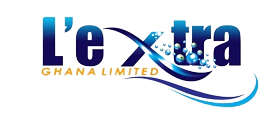
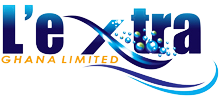
css changes

diff --git a/css/style.css b/css/style.css
@@ -79,6 +79,10 @@ body {
   grid-template-columns: repeat(4, 1fr);
 }
 
+.grid--5--cols {
+  grid-template-columns: repeat(5, 1fr);
+}
+
 .heading-primary {
   font-size: 6rem;
   font-weight: 700;
@@ -88,6 +92,7 @@ body {
   margin-bottom: 3.2rem;
 }
 
+.btn,
 .btn:link,
 .btn:visited {
   display: inline-block;
@@ -139,6 +144,12 @@ body {
   display: flex;
   justify-content: space-between;
   align-items: center;
+  /* border-bottom: 0.1rem solid #eee; */
+  position: sticky;
+  top: 0;
+  background-color: #e8f7fd;
+  z-index: 5;
+
   /* background-color: #e8f7fd; */
   /* background-color: #d2effb; */
 
@@ -148,6 +159,7 @@ body {
 
 .logo {
   height: 10rem;
+  margin-top: 2rem;
 }
 
 /********************************/
@@ -339,7 +351,7 @@ body {
 }
 
 /********************************/
-/* FEATURED IN SECTION */
+/* CLIENTS SECTION */
 /********************************/
 
 .section-clients {
@@ -363,6 +375,235 @@ body {
 .logos img {
   height: 13rem;
   filter: grayscale(20);
+
   /* filter: brightness(0); */
   /* opacity: 50%; */
+}
+
+/********************************/
+/* FORM SECTION - CTA */
+/********************************/
+.section-cta {
+  padding: 9.6rem 0 9.6rem 0;
+  background-color: #fff;
+}
+
+.cta {
+  display: grid;
+  grid-template-columns: 65fr 35fr;
+  background-color: #d2effb;
+  box-shadow: 0 2.4rem 4.8rem rgba(0, 0, 0, 0.075);
+  border-radius: 1.1rem;
+
+  background-image: linear-gradient(to right bottom, #d2effb #1db1eb);
+  overflow: hidden;
+}
+
+.cta-text-box {
+  padding: 4.8rem 6.4rem 6.4rem 6.4rem;
+  color: #333;
+}
+
+.cta .heading-secondary {
+  color: #333;
+  margin-bottom: 3.2rem;
+}
+
+.cta-text {
+  font-size: 1.8rem;
+  line-height: 1.8;
+  margin-bottom: 4.8rem;
+}
+
+.cta-img-box {
+  background-image: url("../img/services/contact.jpg");
+  background-size: cover;
+  background-position: bottom;
+}
+
+.cta-form {
+  display: grid;
+  grid-template-columns: 1fr 1fr;
+  column-gap: 3.2rem;
+  row-gap: 2.4rem;
+}
+
+.cta-form label {
+  display: block;
+  font-size: 1.6rem;
+  font-weight: 500;
+  margin-bottom: 1.2rem;
+}
+
+.cta-form input,
+.cta-form select {
+  width: 100%;
+  padding: 1.2rem;
+  font-size: 1.8rem;
+  font-family: inherit;
+  color: inherit;
+  border: none;
+  /* background-color: #fdf2e9; */
+  border-radius: 0.9rem;
+  box-shadow: 0 0.1rem 0.2rem rgba(0, 0, 0, 0.01);
+}
+
+.cta-form input::placeholder {
+  color: #aaa;
+}
+
+.btn--form {
+  background-color: #093546;
+  color: #fff;
+  align-self: end;
+  padding: 1.2rem;
+  border: none;
+}
+
+.btn--form:hover {
+  background-color: #fff;
+  color: #555;
+}
+
+*:focus {
+  outline: none;
+  box-shadow: 0 0 0 0.8rem rgba(29, 177, 235, 0.5);
+}
+
+.cta *:focus {
+  outline: none;
+  box-shadow: 0 0 0 0.8rem rgba(253, 242, 233, 0.5);
+}
+
+/********************************/
+/* FORM SECTION - CONTACT INFORMATION */
+/********************************/
+
+.contacts {
+  padding: 4.8rem 1.6rem;
+  background-color: #1db1eb;
+  color: #fff;
+}
+
+.contacts .heading-secondary {
+  font-size: 3.5rem;
+  color: #fff;
+  margin-bottom: 4rem;
+}
+
+.contacts span {
+  font-size: 1.6rem;
+  line-height: 1.2;
+}
+
+.list {
+  list-style: none;
+  display: flex;
+  flex-direction: column;
+  gap: 4.8rem;
+}
+
+.list-item {
+  font-size: 1.9rem;
+  display: flex;
+  align-items: center;
+  justify-items: center;
+  gap: 1.6rem;
+}
+
+.list-icon {
+  width: 3rem;
+  height: 3rem;
+}
+
+.contact-logos {
+  display: grid;
+  grid-template-columns: repeat(4, 1fr);
+  margin-top: 6.5rem;
+  width: 20rem;
+  /* height: 10rem; */
+}
+
+.social-logos {
+  width: 4rem;
+  height: 4rem;
+  justify-self: center;
+}
+
+/********************************/
+/* FOOTER SECTION */
+/********************************/
+
+.footer {
+  padding: 12.8rem 0;
+  border-top: 0.1rem solid #eee;
+  background-color: #fff;
+}
+
+.grid--footer {
+  grid-template-columns: 1.5fr 1.5fr 1.5fr 1fr 1fr;
+}
+
+.logo-col {
+  display: flex;
+  flex-direction: column;
+}
+
+.footer-logo {
+  display: block;
+  margin-bottom: 3.2rem;
+}
+
+.social-links {
+  list-style: none;
+  display: flex;
+  gap: 2.4rem;
+}
+
+.social-icon {
+  height: 2.4rem;
+  width: 2.4rem;
+}
+
+.copyright {
+  font-size: 1.4rem;
+  line-height: 1.6;
+  color: #767676;
+  margin-top: auto;
+}
+
+.footer-heading {
+  font-size: 1.8rem;
+  font-weight: 500;
+  margin-bottom: 3.2rem;
+}
+
+.contact {
+  font-style: normal;
+  font-size: 1.6rem;
+  line-height: 1.6;
+}
+
+.address {
+  margin-bottom: 2.4rem;
+}
+
+.footer-nav {
+  list-style: none;
+  display: flex;
+  flex-direction: column;
+  gap: 2.4rem;
+}
+
+.footer-link:link,
+.footer-link:visited {
+  text-decoration: none;
+  font-size: 1.6rem;
+  color: #767676;
+  transition: all 0.3s;
+}
+
+.footer-link:hover,
+.footer-link:active {
+  color: #555;
 }
